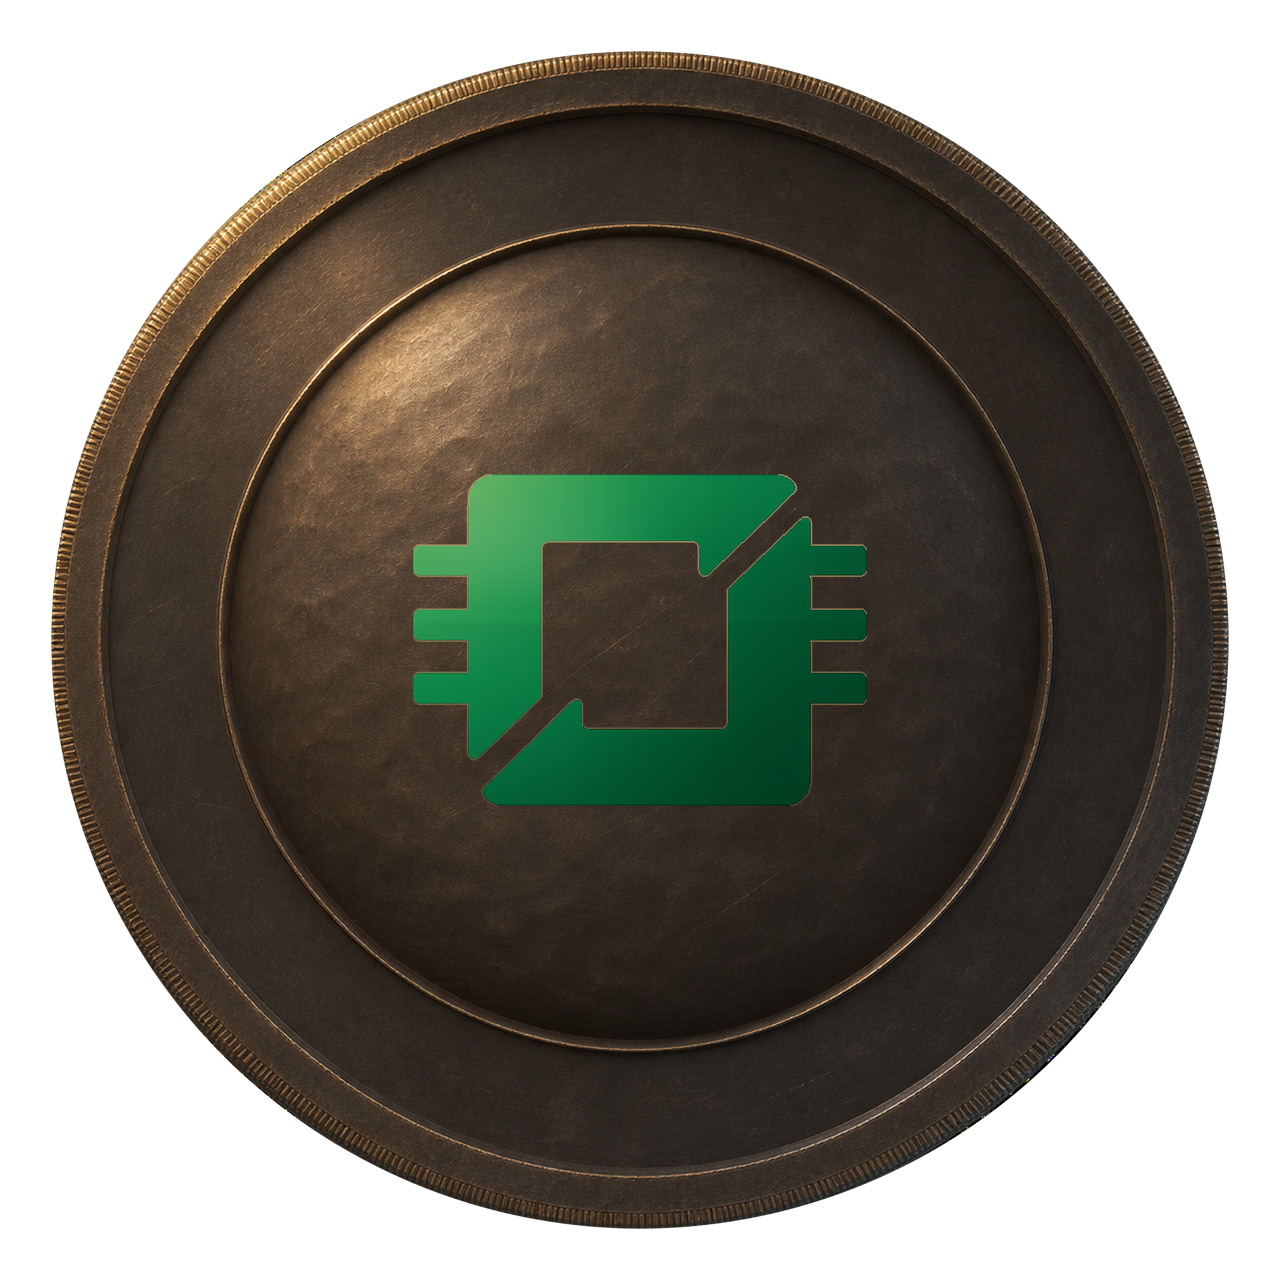
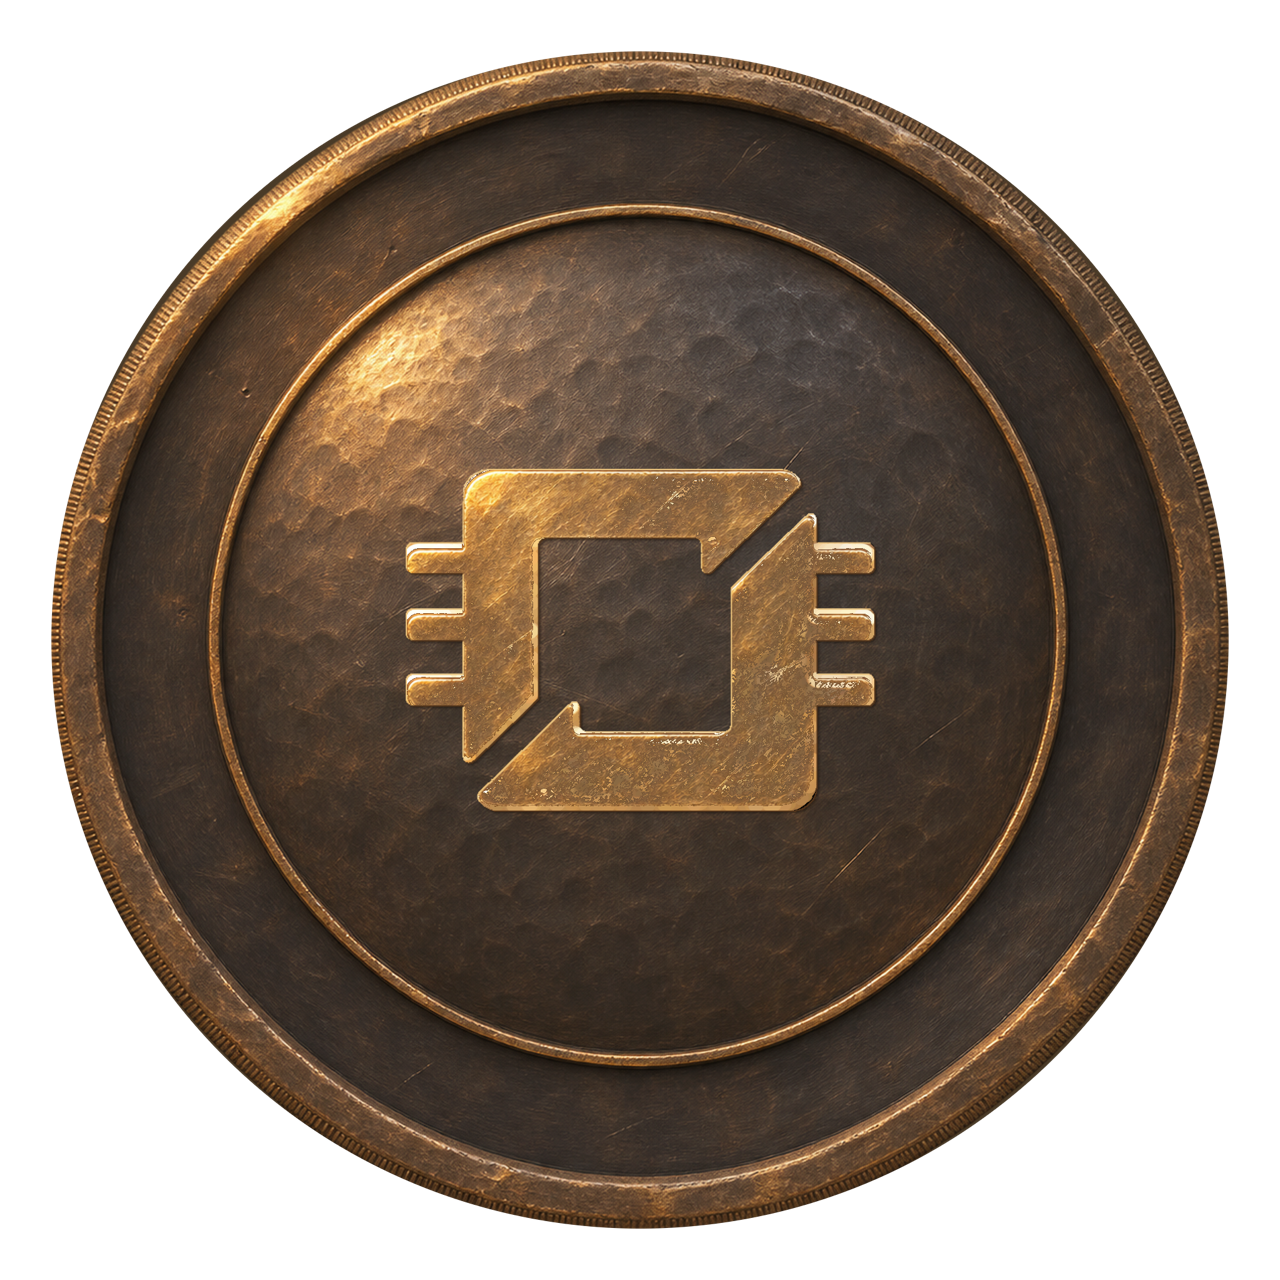
Intro pages cross-fade: the new painting comes in over the one before, so a turn never shows black with the words already up (Mac's dark House Wolfholt page: a page caught in its fade from black, long when the loading screen stalled). The studio seal is Codex's revised one: the mark in worn gold rel

diff --git a/realm/assets/intro/seal/CREDITS.md b/realm/assets/intro/seal/CREDITS.md
@@ -1,0 +1,31 @@
+# Off Grid AI studio seal: revision 2
+
+Date: 2026-11-06.
+
+The revised pair uses warm painted bronze and a worn gold mark, following the desktop shield material reference and the later request to fit the game art. Both files are 2048 × 2048 RGBA PNGs. The wide name band is blank. The plain centre has texture only.
+
+## Files
+
+| File | Dimensions | File size |
+| --- | --- | --- |
+| [seal_plain.png](/Users/user/Downloads/Aldmere/intro/seal/seal_plain.png) | 2048 × 2048 | 4,619,531 bytes (4.41 MiB) |
+| [seal_marked.png](/Users/user/Downloads/Aldmere/intro/seal/seal_marked.png) | 2048 × 2048 | 4,720,052 bytes (4.50 MiB) |
+
+## Creation
+
+Both new painted masters were created with OpenAI `image_gen.imagegen` (built-in tool), on 2026-11-06. The tool did not report its model name or ID. Native source size: 1254 × 1254. ImageMagick 7.1.2-27 made the final 2048 × 2048 exports and enforced the shared geometry.
+
+The game style reference was `realm/assets/ui/title-background.png`. The material reference was a render of the existing Off Grid AI desktop Ares shield. The new seal uses a simple rim and a blank annular band. It has no shield, laurel, Greek border, crown, gems, letters or numbers.
+
+The new plain master supplies the bronze in both files. The newly painted marked master supplies the worn gold finish. The original `realm/assets/ui/offgrid-mark.png` alpha outline supplies the final mark geometry, with three pins on each side, its original cut and inner opening. Its stencil is scaled to 750 × 547 pixels, about 55% of the centre field width. Fine edge highlights and a small contact shadow give shallow relief. Transparent openings reveal the plain master below. The generated mark contour was not used for the final outline.
+
+The previous rejected pair is preserved under `source/rejected-v1/`. The source drawings and desktop models are unchanged. A separate 3D stamp study is also kept under `source/revision-v2/`; it is not the final painted inlay.
+
+## Checks
+
+Both files were opened together. The circular alpha is symmetric and identical in both files, with all pixels outside the circle fully transparent. All visible bronze pixels outside the inlay area are identical. The inlay alpha is pixel-identical to the source stencil. The left and right pin counts are both three. The seal diameter is 1884 pixels, about 92% of the canvas.
+
+- [Plain master prompt](/Users/user/Downloads/Aldmere/intro/seal/source/revision-v2/PLAIN_PROMPT.txt).
+- [Marked master prompt](/Users/user/Downloads/Aldmere/intro/seal/source/revision-v2/MARKED_PROMPT.txt).
+- [Check data](/Users/user/Downloads/Aldmere/intro/seal/SEAL_CHECKS.json).
+- [Pair preview](/Users/user/Downloads/Aldmere/intro/seal/SEAL_PREVIEW.png).
